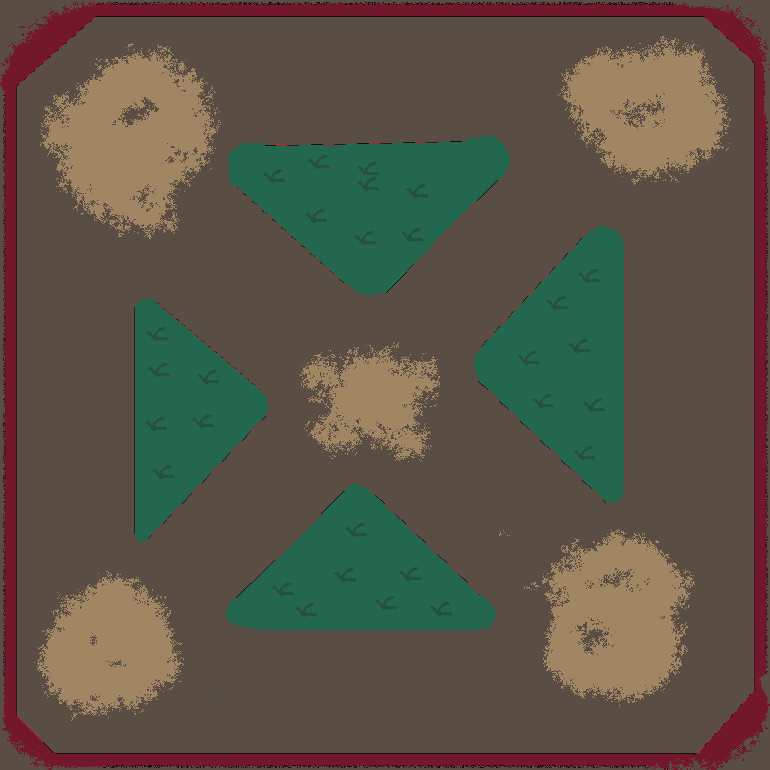
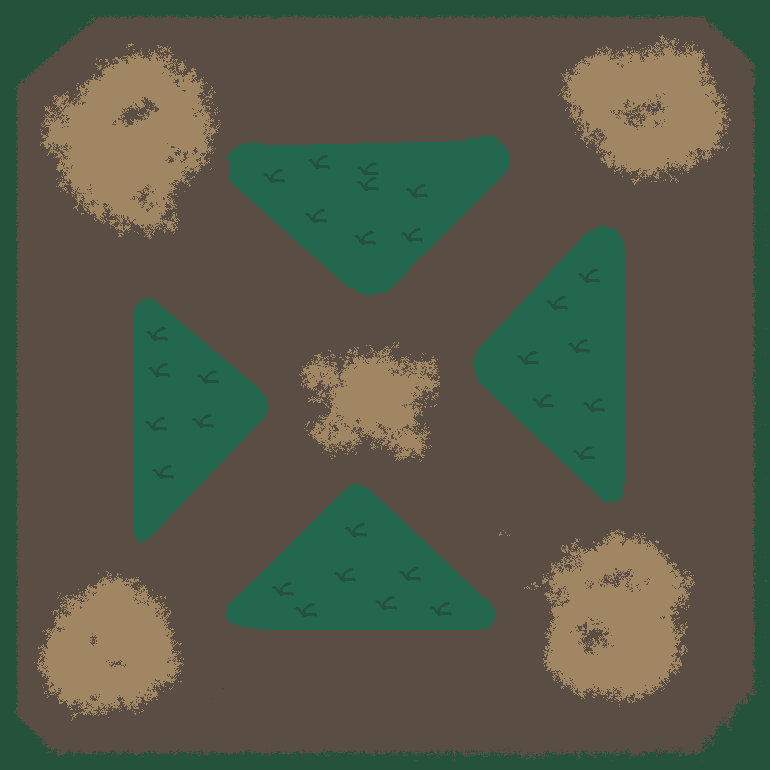
Art updates

Changed region(s): [[0.0, 0.0, 1.0, 1.0]]

diff --git a/src/main.rs b/src/main.rs
@@ -28,7 +28,7 @@ fn main() {
             watch_for_changes: true,
             ..default()
         })
-        .insert_resource(ClearColor(CLEAR))
+        .insert_resource(ClearColor(Color::hex(&"24523b").unwrap()))
         .insert_resource(WindowDescriptor {
             width: HEIGHT * RESOLUTION,
             height: HEIGHT,
